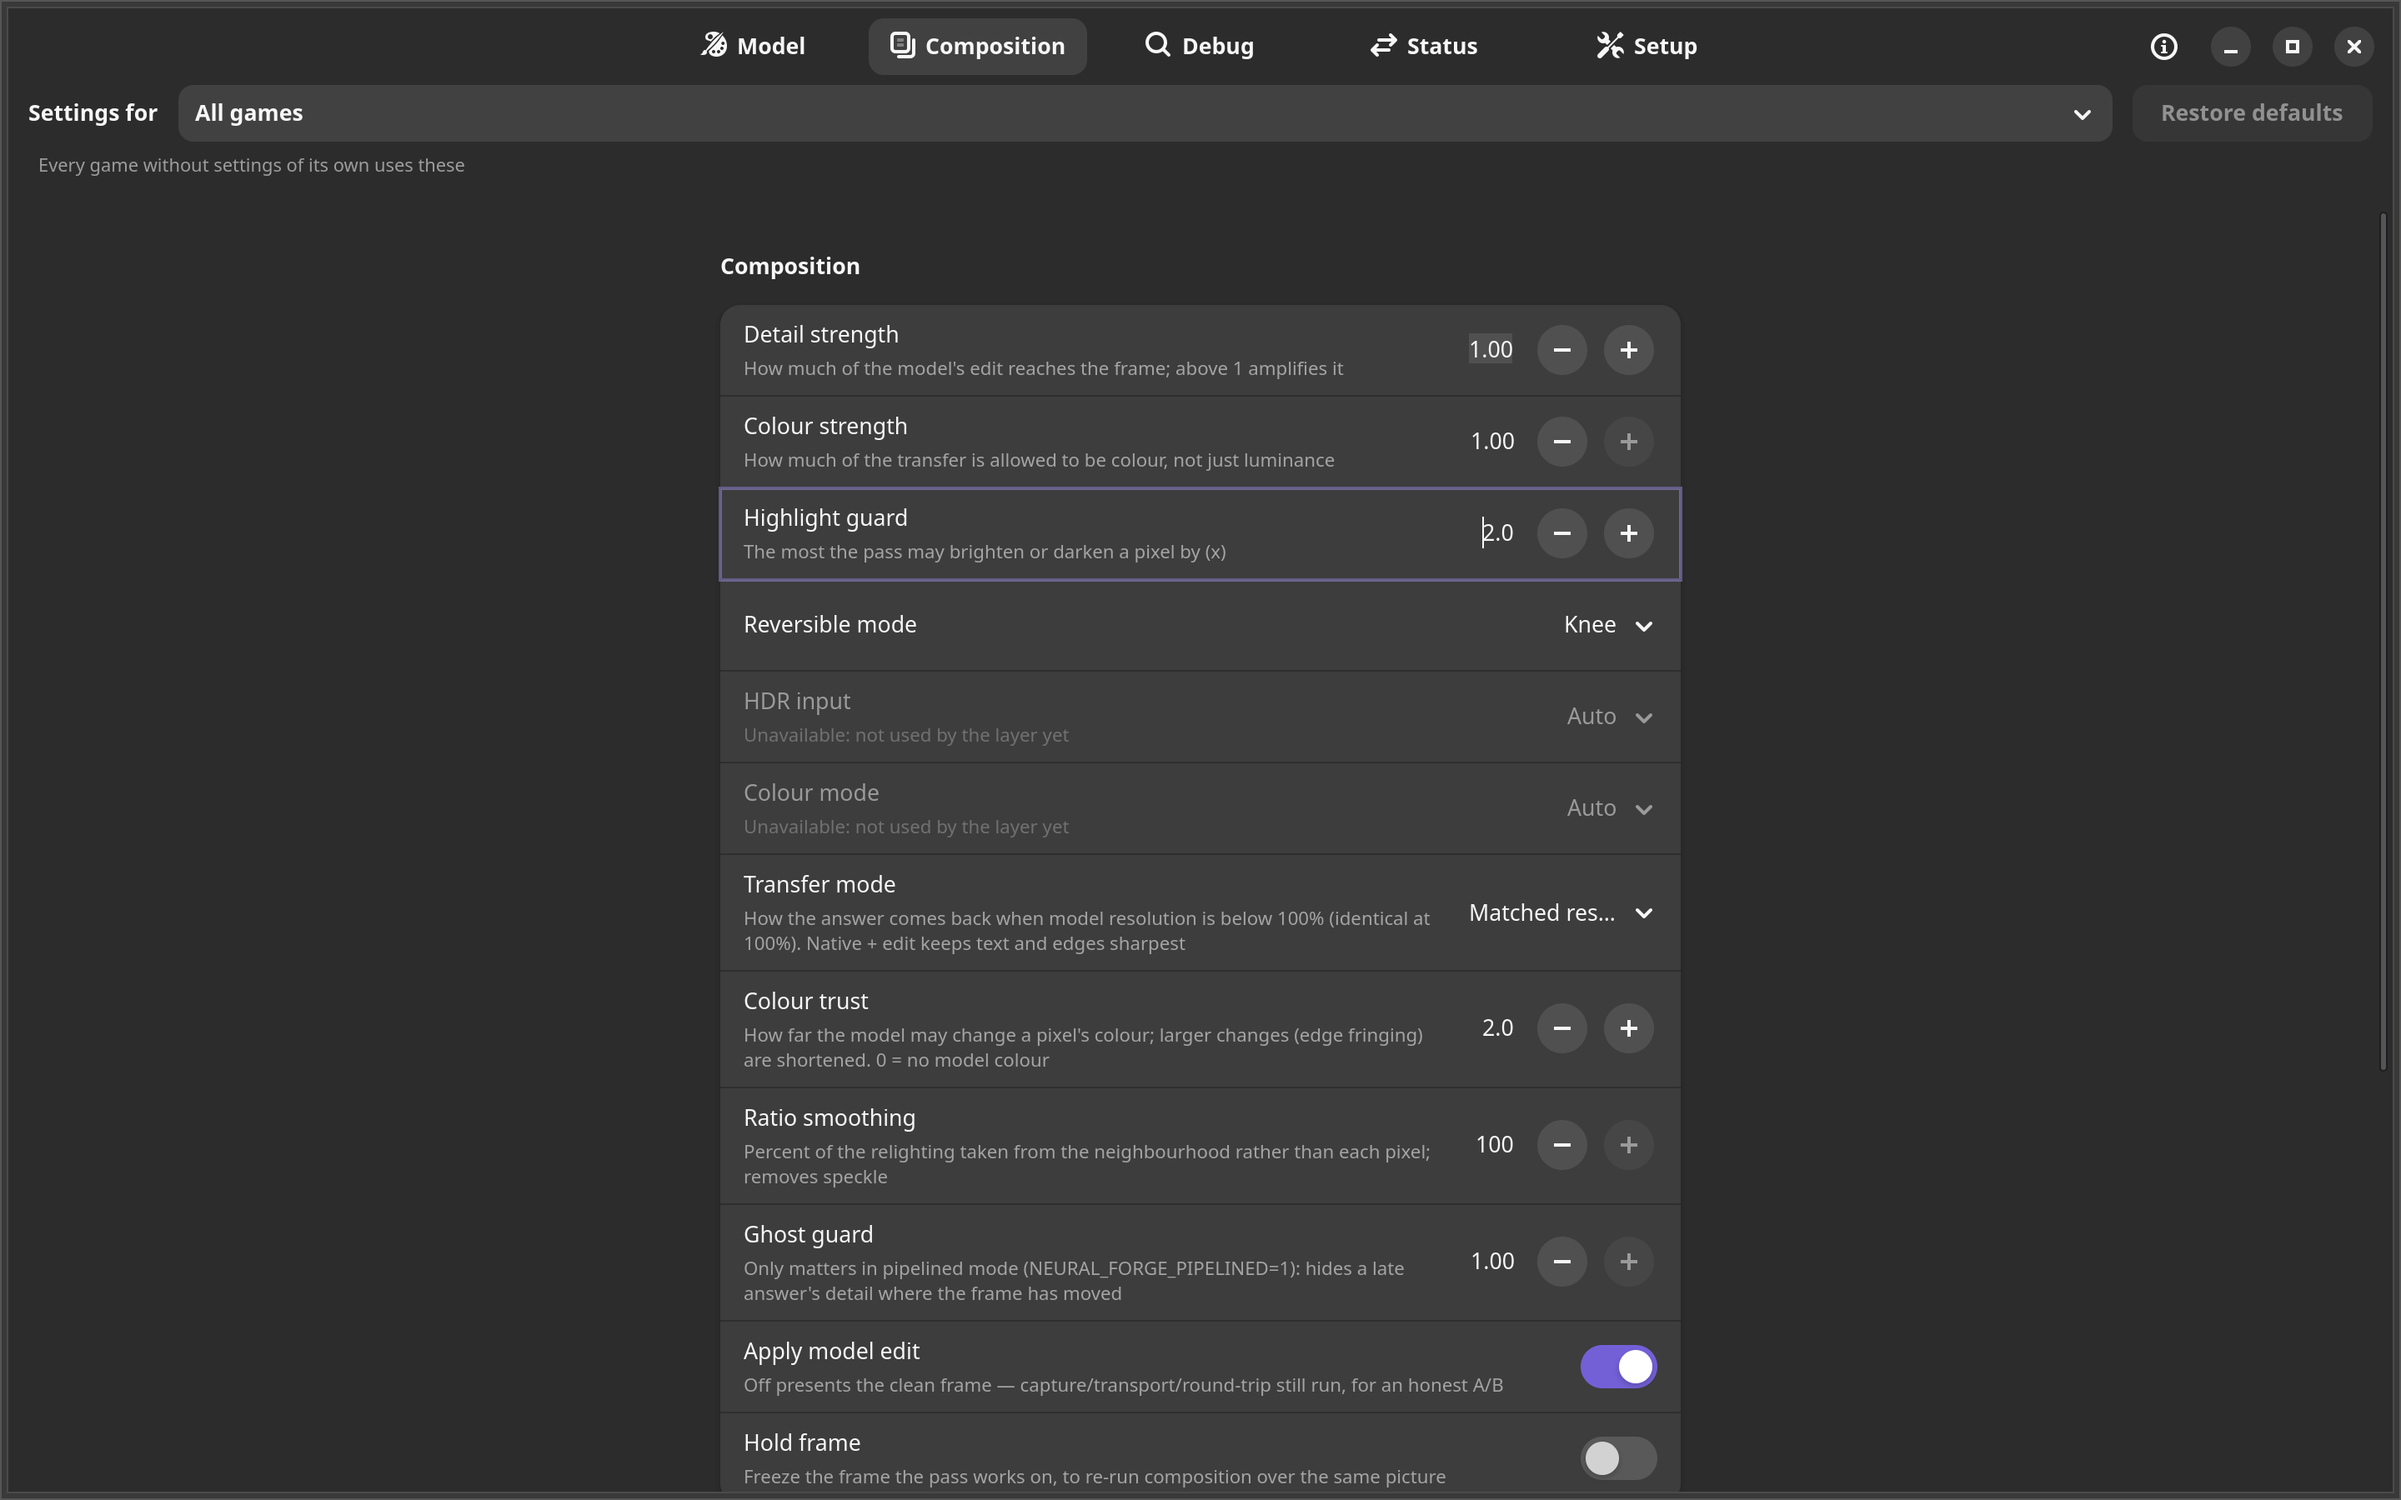
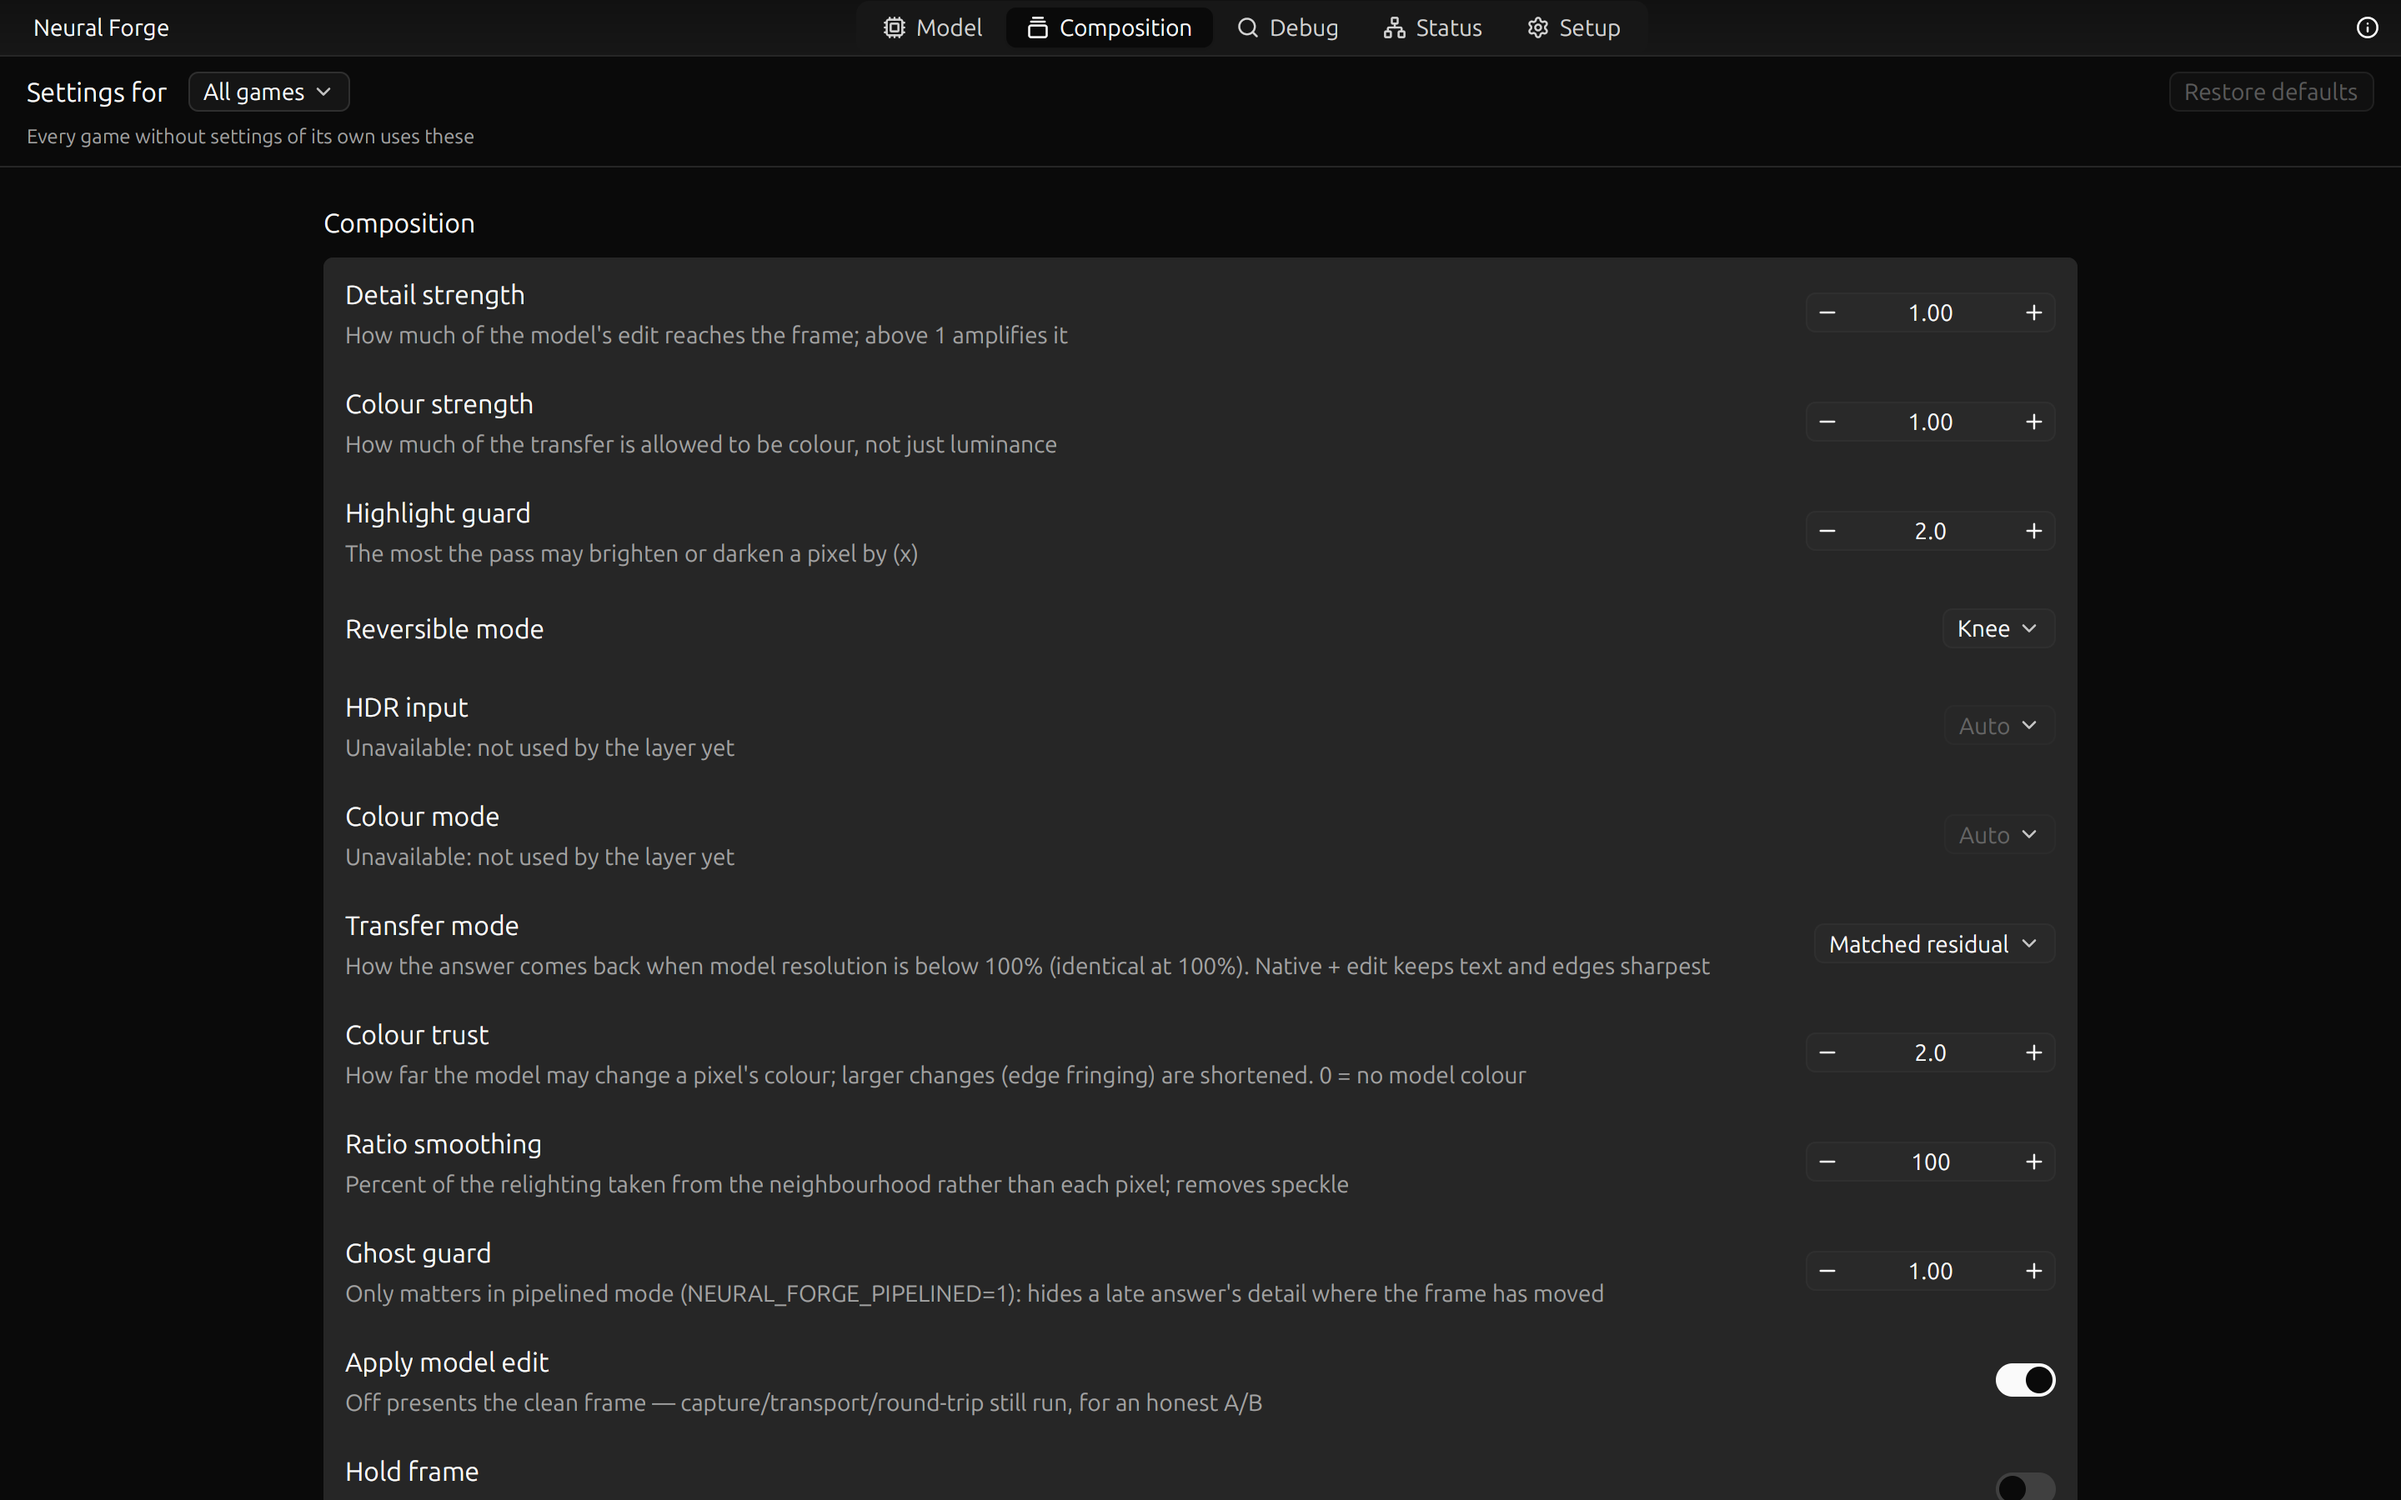
The step buttons move a value by its own step; screenshots of the new window
The toolkit's number field stepped its own text by 1 on top of the row's step: its stepping is off now, and the
row moves the value by the setting's step (found by clicking through the window on a private display: steps,
typing, menus, switches, HUD regions, the Reset question and Diagnose). The README's and the user guide's nine
screenshots are retaken from the new window, the Status ones while Cyberpunk 2077's benchmark ran.

diff --git a/crates/gui/src/ui.rs b/crates/gui/src/ui.rs
@@ -13,7 +13,7 @@ use std::sync::Arc;
 use std::time::{Duration, Instant};
 
 use gpui_kit::component::button::{Button, ButtonVariants as _};
-use gpui_kit::component::input::{InputEvent, InputState, NumberInput, NumberInputEvent, StepAction};
+use gpui_kit::component::input::{InputEvent, InputState, NumberInput, NumberInputEvent, NumberStep, StepAction};
 use gpui_kit::component::menu::{DropdownMenu as _, PopupMenuItem};
 use gpui_kit::component::notification::Notification;
 use gpui_kit::component::tab::{Tab as TabItem, TabBar};
@@ -462,7 +462,12 @@ impl Spin {
         after: fn(&mut V, &mut Window, &mut Context<V>),
     ) -> (Self, [Subscription; 2]) {
         let text = Self::text_for(step, get());
-        let input = cx.new(|cx| InputState::new(window, cx).default_value(text));
+        let input = cx.new(|cx| {
+            let mut state = InputState::new(window, cx).default_value(text);
+            // The toolkit's own stepping (by 1, on the text) is off: a step comes as an event and moves the value itself.
+            state.set_step(None::<NumberStep>, window, cx);
+            state
+        });
         let spin = Self { input: input.clone(), get, set, lower, upper, step };
         let typed = {
             let spin = spin.clone();

diff --git a/AGENTS.md b/AGENTS.md
@@ -159,7 +159,8 @@ All documentation is indexed in [docs/README.md](docs/README.md); start with doc
 - The rows are drawn from the header: a switch or menu row reads its field when it is rendered and writes it with
   `MainView::set_bits`; nothing is kept in step by hand. A spin row is a `Spin` (a number field created once, in
   `add_setting_spins`, `FLOAT_SPINS`/`INT_SPINS`): a new float setting gets a line there and a `spin_row` in its page.
-  After anything writes the header call `MainView::changed`. What else can change it (shmctl, a profile, a game's
+  The toolkit's number field steps its own text by 1 unless told not to: `Spin::new` turns that off (`set_step(None)`) and
+  moves the value itself on the step event. After anything writes the header call `MainView::changed`. What else can change it (shmctl, a profile, a game's
   session) is picked up by `tick`, once a second, which compares `Live` (every status text and the settings'
   snapshot) with what is shown and redraws only on a difference.
 - The window must not cost a game anything. No continuous redraw: `cx.notify()` only from an edit, from `tick` on a
@@ -197,6 +198,8 @@ All documentation is indexed in [docs/README.md](docs/README.md); start with doc
   (`cube::load`, `extract_all`). A menu is a button with a popup menu (`menu_button`), not a searchable list.
 - The toggle key: GPUI gives a key's name on the current layout, not its hardware code, and the layer reads evdev
   codes: `keys.rs` maps names to the code of the US-layout key.
+- Clicks, the wheel and typing can be tested on the private X display with `xdotool` (window-relative positions in
+  device pixels, twice the logical ones at 2x), reading the scratch `config.ini` afterwards for what was saved.
 - Before a release, on GNOME, KDE Plasma, Hyprland and COSMIC: start, every tab, a number field (type, step, Enter),
   a menu, the per-pass dialog, a question (Reset), the file dialog, light/dark switch, a second start; and with no
   GPU: lavapipe (`VK_DRIVER_FILES` at the `lvp_icd` manifest), OpenGL ES only (`VK_DRIVER_FILES=/dev/null`), no
